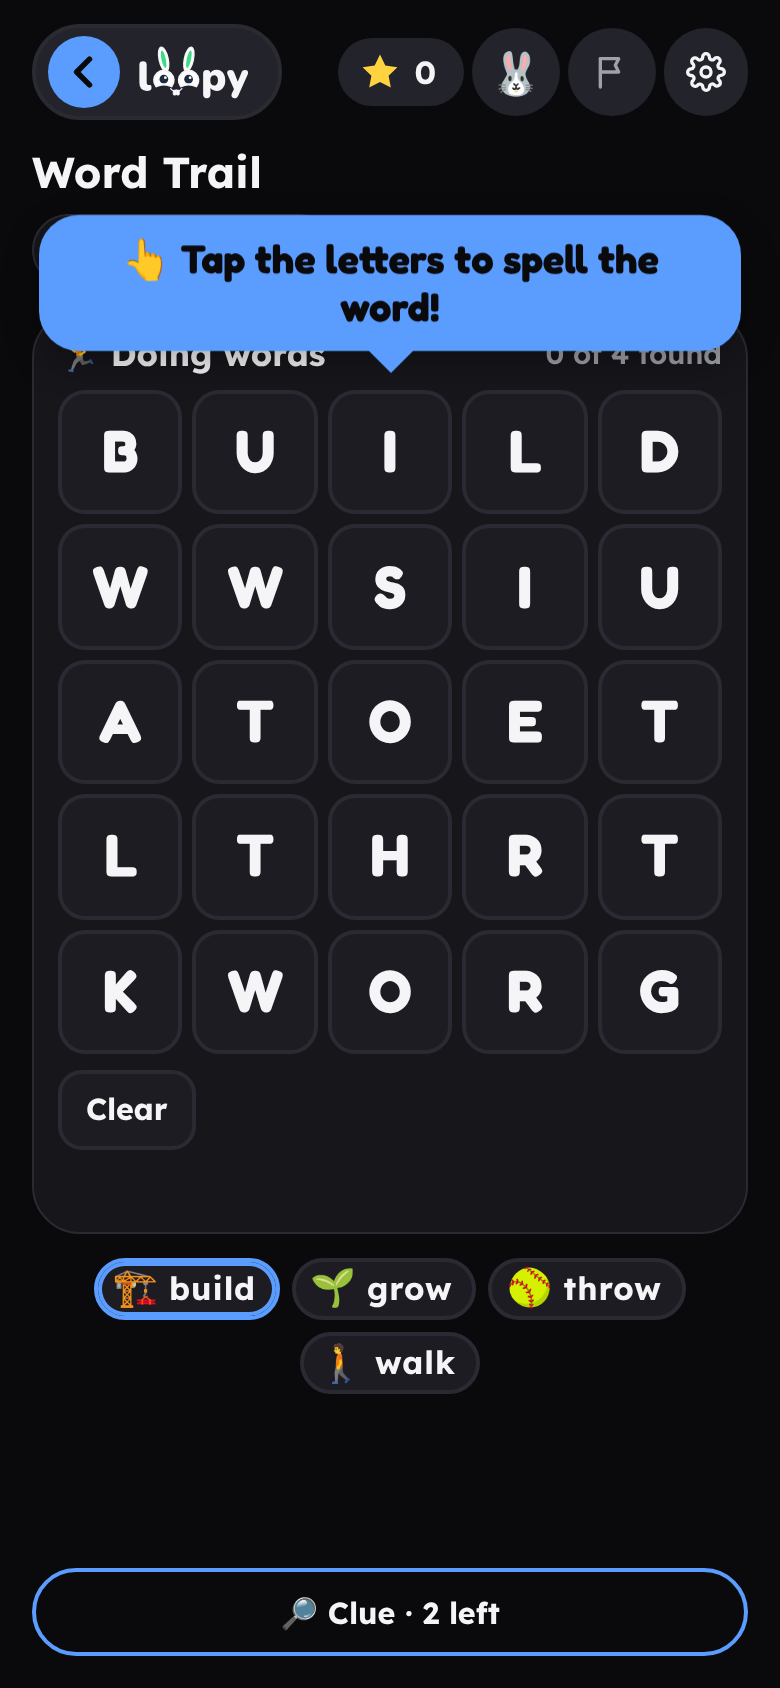
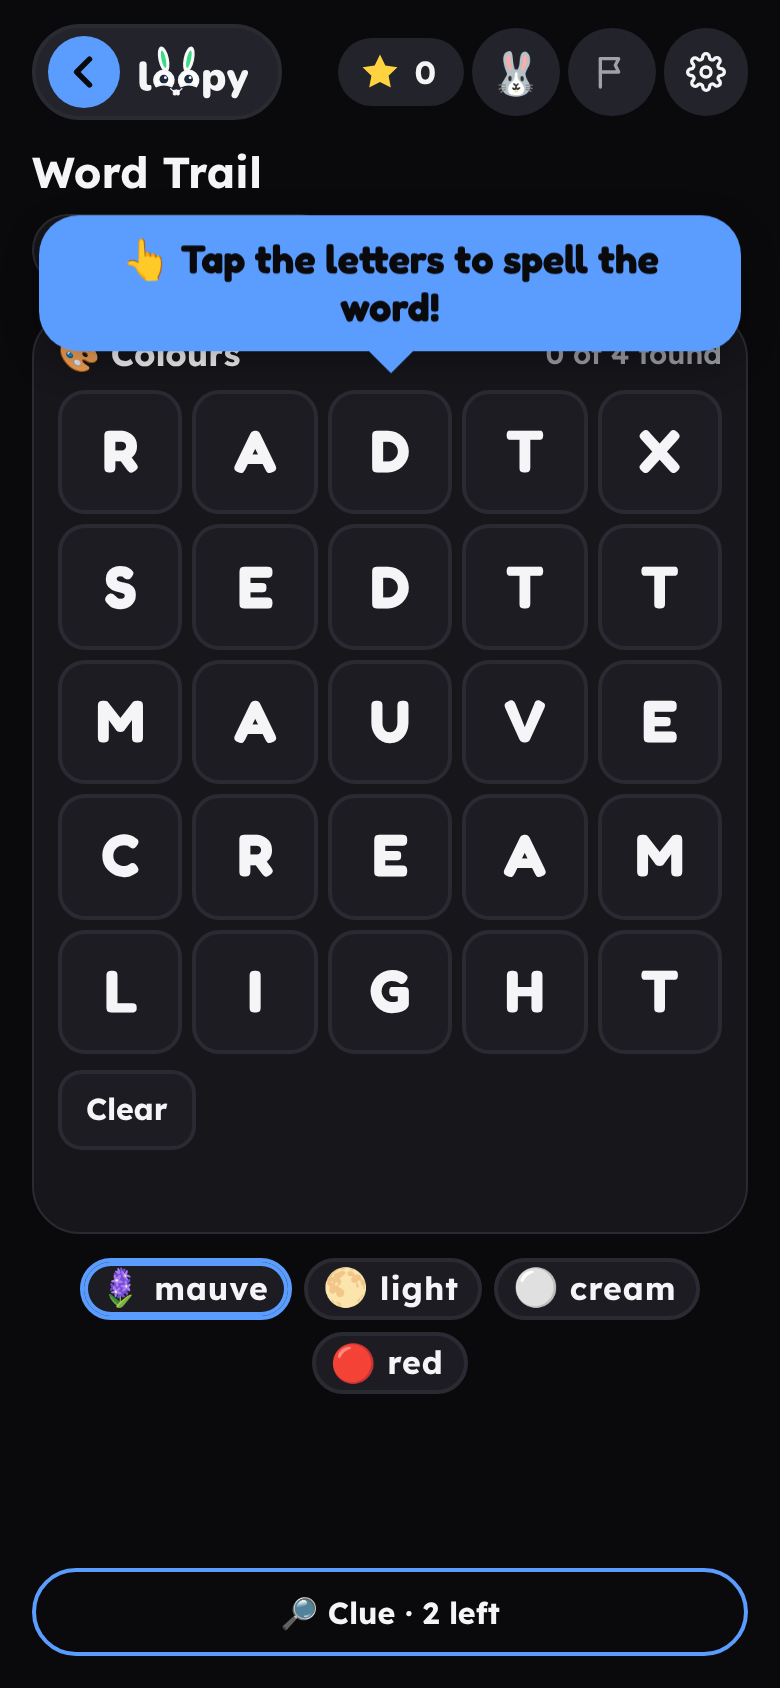
Word Trail: no spare room on a tablet
Upright, the page uses the whole width, so the grid spans the screen.
Sideways, the card column is as wide as the grid can be tall, so the
grid takes the height, and the word list is a column of full-width
chips next to it with Clue and Next under it.

diff --git a/sw.js b/sw.js
@@ -1,5 +1,5 @@
 /* loopy: built from src/sw.js by tools/build.py. Do not edit this file, edit the source. */
-var VERSION="98dfb0cfa30f841a",FILES={"apple-touch-icon.png":"826eeeca90","fonts/atkinson-latin.woff2":"71c3e56f88","fonts/fredoka-latin-ext.woff2":"18a1723c87","fonts/fredoka-latin.woff2":"3facd28352","fonts/lexend-latin-ext.woff2":"b5d815d420","fonts/lexend-latin.woff2":"35a62e43ae","geography/flags-capitals/data.js":"b641089a33","geography/flags-capitals/":"64315fdff4","geography/where-is-it/data.js":"c8e0bf4f86","geography/where-is-it/":"b552768a16","help/":"7fbc62f69d","icon-192.png":"571274d70c","icon-512.png":"dfd4ed3adf","icon-maskable-512.png":"981dcb84db","icon.svg":"3d1a9ed7fd","./":"57e5a7592d","languages/sentence-builder/":"a2606c7ae1","languages/sentence-builder/words.js":"15d02d630a","languages/sound-spell/":"0c2fde4438","languages/sound-spell/words.js":"100ac92ec5","languages/spell-it/":"001e0c3374","languages/spell-it/words.js":"72e87eaa4f","languages/spelling-quiz/":"b497a43315","languages/spelling-quiz/words.js":"9c90832137","languages/word-detective/":"a369dd7558","languages/word-detective/words.js":"62c5968b01","languages/word-match/":"ad5e3099c4","languages/word-trail/":"aac563a6ac","languages/words.js":"ad5f903a46","logo-white.svg":"f6a28d2294","logo.svg":"33f3453587","loopy-backup.js":"f92623ab2d","loopy-install.js":"3c3d79f3e7","loopy-levels.js":"814852b75c","loopy-report.js":"c374c981fa","loopy-sheet.js":"8866d2feb4","loopy-sync.js":"0866d61ab8","loopy.css":"de8276730d","loopy.js":"62f6b0d7c0","manifest.webmanifest":"32d1e2daa8","math/bigger-or-smaller/":"4e67dce547","math/box-multiply/":"cc580bc685","math/coins-change/":"535f5fc48f","math/equation-balance/":"c3315b3c55","math/graphs-data/":"ed5f74ef5d","math/make-10/":"e59ed6180e","math/percent-ratio/":"028a94dda4","math/pizza-fractions/":"1d479f211d","math/plus-minus/":"3cb953f5b6","math/plus-minus-100/":"b149fbb898","math/shapes-angles/":"67dbb0a627","math/step-by-step/":"ee65b66a50","math/times-share/":"c27b0e114f","math/times-sprint/":"ed564f3796","math/what-time-is-it/":"c6b02b8edd","mix/daily-mix/":"f9b732ca31","print.css":"619925ee48","privacy/":"a461f641db","progress/":"f1c7bea29f","science/quick-facts/data.js":"8196c98b79","science/quick-facts/":"753f191d5e","science/sort-it/data.js":"9abc4f3e8a","science/sort-it/":"d7f77a0a37"};
+var VERSION="9f920cac7416a12c",FILES={"apple-touch-icon.png":"826eeeca90","fonts/atkinson-latin.woff2":"71c3e56f88","fonts/fredoka-latin-ext.woff2":"18a1723c87","fonts/fredoka-latin.woff2":"3facd28352","fonts/lexend-latin-ext.woff2":"b5d815d420","fonts/lexend-latin.woff2":"35a62e43ae","geography/flags-capitals/data.js":"b641089a33","geography/flags-capitals/":"64315fdff4","geography/where-is-it/data.js":"c8e0bf4f86","geography/where-is-it/":"b552768a16","help/":"7fbc62f69d","icon-192.png":"571274d70c","icon-512.png":"dfd4ed3adf","icon-maskable-512.png":"981dcb84db","icon.svg":"3d1a9ed7fd","./":"57e5a7592d","languages/sentence-builder/":"a2606c7ae1","languages/sentence-builder/words.js":"15d02d630a","languages/sound-spell/":"0c2fde4438","languages/sound-spell/words.js":"100ac92ec5","languages/spell-it/":"001e0c3374","languages/spell-it/words.js":"72e87eaa4f","languages/spelling-quiz/":"b497a43315","languages/spelling-quiz/words.js":"9c90832137","languages/word-detective/":"a369dd7558","languages/word-detective/words.js":"62c5968b01","languages/word-match/":"ad5e3099c4","languages/word-trail/":"b2cb6e00f4","languages/words.js":"ad5f903a46","logo-white.svg":"f6a28d2294","logo.svg":"33f3453587","loopy-backup.js":"f92623ab2d","loopy-install.js":"3c3d79f3e7","loopy-levels.js":"814852b75c","loopy-report.js":"c374c981fa","loopy-sheet.js":"8866d2feb4","loopy-sync.js":"0866d61ab8","loopy.css":"de8276730d","loopy.js":"62f6b0d7c0","manifest.webmanifest":"32d1e2daa8","math/bigger-or-smaller/":"4e67dce547","math/box-multiply/":"cc580bc685","math/coins-change/":"535f5fc48f","math/equation-balance/":"c3315b3c55","math/graphs-data/":"ed5f74ef5d","math/make-10/":"e59ed6180e","math/percent-ratio/":"028a94dda4","math/pizza-fractions/":"1d479f211d","math/plus-minus/":"3cb953f5b6","math/plus-minus-100/":"b149fbb898","math/shapes-angles/":"67dbb0a627","math/step-by-step/":"ee65b66a50","math/times-share/":"c27b0e114f","math/times-sprint/":"ed564f3796","math/what-time-is-it/":"c6b02b8edd","mix/daily-mix/":"f9b732ca31","print.css":"619925ee48","privacy/":"a461f641db","progress/":"f1c7bea29f","science/quick-facts/data.js":"8196c98b79","science/quick-facts/":"753f191d5e","science/sort-it/data.js":"9abc4f3e8a","science/sort-it/":"d7f77a0a37"};
 var CACHE="loopy-"+VERSION;var LIST=new URL("loopy-files",self.location).href;var SAVED={};Object.keys(FILES).forEach(function(f){SAVED[new URL(f,self.location).href]=FILES[f];});function key(url){var u=new URL(url);u.search="";u.hash="";u.pathname=u.pathname.replace(/\/index\.html$/,"/").replace(/\/([^\/.]+)$/,"/$1/");return u.href;}
 function oldCopy(){return caches.keys().then(function(names){return Promise.all(names.filter(function(n){return n.indexOf("loopy-")===0&&n!==CACHE;}).map(function(n){return caches.open(n).then(function(cache){return cache.match(LIST).then(function(r){return r?r.json():null;}).then(function(list){if(!list||typeof list!=="object")return null;var same=Object.keys(SAVED).filter(function(url){return list[url]===SAVED[url];}).length;return{cache:cache,list:list,same:same};});}).catch(function(){return null;});}));}).then(function(copies){return copies.reduce(function(best,c){return c&&(!best||c.same>best.same)?c:best;},null);}).catch(function(){return null;});}
 function matches(res,want){if(!res||!self.crypto||!crypto.subtle)return Promise.resolve(!!res);return res.clone().arrayBuffer().then(function(buf){return crypto.subtle.digest("SHA-256",buf);}).then(function(d){return Array.prototype.map.call(new Uint8Array(d),function(b){return(b<16?"0":"")+b.toString(16);}).join("").slice(0,10)===want;},function(){return true;});}

diff --git a/languages/word-trail/index.html b/languages/word-trail/index.html
@@ -2,7 +2,7 @@
 <html lang="en">
 <head>
 <meta charset="utf-8">
-<meta http-equiv="Content-Security-Policy" content="default-src 'self'; script-src 'self' 'sha256-lAx0mTM6xN1UceBe24lCt9oUzZXwg/Sj3TcZuJAvhcE='; style-src 'self' 'sha256-z2P7kGW5Z05eCTjTZdYpc0vThTlOE9vmt97pVSvi2I4=' 'sha256-qxqld09sBl9KP7HcyMVqISsx5anYdMyEAaUoAncFj3Q=' 'sha256-RT1053JU5UiKvjrCUFx1rlhdFLMmgtuFJ9T8jnMeawQ=' 'sha256-YYUDj2doCdN0V13HLDitm8qTdC5Oy36quKpZHCQ5GXs='; img-src 'self' data:; font-src 'self'; connect-src 'self' https://loopy-sync.loopy-1e2.workers.dev; worker-src 'self'; object-src 'none'; base-uri 'none'; form-action 'none'; manifest-src 'self'; upgrade-insecure-requests">
+<meta http-equiv="Content-Security-Policy" content="default-src 'self'; script-src 'self' 'sha256-lAx0mTM6xN1UceBe24lCt9oUzZXwg/Sj3TcZuJAvhcE='; style-src 'self' 'sha256-z2P7kGW5Z05eCTjTZdYpc0vThTlOE9vmt97pVSvi2I4=' 'sha256-qxqld09sBl9KP7HcyMVqISsx5anYdMyEAaUoAncFj3Q=' 'sha256-RT1053JU5UiKvjrCUFx1rlhdFLMmgtuFJ9T8jnMeawQ=' 'sha256-JLCGGHAfRX9x+80gQLgpmM9Oo+2y4pigyml2DfJWIa0='; img-src 'self' data:; font-src 'self'; connect-src 'self' https://loopy-sync.loopy-1e2.workers.dev; worker-src 'self'; object-src 'none'; base-uri 'none'; form-action 'none'; manifest-src 'self'; upgrade-insecure-requests">
 <meta name="referrer" content="strict-origin-when-cross-origin">
 <meta name="viewport" content="width=device-width, initial-scale=1, viewport-fit=cover">
 <style>:root{color-scheme:light;padding-top:env(safe-area-inset-top,0px);padding-bottom:env(safe-area-inset-bottom,0px)}body{margin:0}[hidden]{display:none!important}</style>
@@ -99,7 +99,7 @@ body { min-height: 100vh; min-height: 100dvh; padding-block: 12px 16px; }
 .bar-right { display: flex; align-items: center; gap: 8px; }
 .top { gap: 8px 12px; }
 .play { display: flex; flex-direction: column; gap: 12px; -webkit-user-select: none; user-select: none; }
-@media (min-width: 600px) and (orientation: portrait) { .wrap { max-width: 760px; } } /* wider than the other games: the grid is the whole game */
+@media (min-width: 600px) and (orientation: portrait) { .wrap { max-width: none; } } /* the whole width, unlike the other games: the grid is the whole game */
 @media (orientation: landscape) and (min-width: 640px) {
   .wrap { max-width: 1100px; }
   .play { display: grid; grid-template-columns: 1fr 1fr; gap: 16px; align-items: center; }
@@ -125,17 +125,26 @@ body { min-height: 100vh; min-height: 100dvh; padding-block: 12px 16px; }
   .problem-card { flex-grow: 999; max-height: calc(100cqw + 104px); }
   .problem-card:has(#result:not([hidden])) { max-height: calc(100cqw + 170px); }
   .feedback { min-height: 1.5em; }
-  .side { flex: 1 1 auto; min-height: 0; display: flex; flex-direction: column; justify-content: space-between; gap: 10px; }
+  .side { flex: 1 0 auto; min-height: 0; display: flex; flex-direction: column; justify-content: space-between; gap: 10px; }
   .side .words { flex: 0 0 auto; }
 }
-/* Tablets upright: bigger word chips and buttons; the word list sits under the card, Clue at the bottom. */
-@media (orientation: portrait) and (min-width: 600px) {
+/* Tablets: bigger word chips and buttons. Upright, the word list sits under the card and Clue at the bottom.
+   Sideways, the card column is as wide as the grid can be tall, so the grid takes the height and the list the rest. */
+@media (orientation: portrait) and (min-width: 600px), (orientation: landscape) and (min-width: 900px) and (min-height: 600px) {
   .side { gap: 16px; }
   .words { gap: 10px; }
   .wd { font-size: 1.2rem; padding: 7px 14px 7px 10px; }
   .wd .e { font-size: 1.4rem; }
   .more { min-height: 54px; font-size: 1.1rem; }
   .next { font-size: 1.35rem; }
+}
+@media (orientation: landscape) and (min-width: 900px) and (min-height: 600px) {
+  .play { grid-template-columns: minmax(0, calc(100dvh - 210px)) minmax(0, 1fr); }
+  .words { flex-direction: column; align-items: stretch; gap: 10px; }
+  .wd { font-size: 1.4rem; padding: 10px 18px 10px 14px; justify-content: flex-start; }
+  .wd .e { font-size: 1.8rem; }
+  .more { min-height: 60px; }
+  .next { min-height: 64px; }
 }
 @media (orientation: landscape) and (min-width: 640px) {
   body { height: calc(100dvh - env(safe-area-inset-top, 0px) - env(safe-area-inset-bottom, 0px)); min-height: 0; display: flex; flex-direction: column; overflow: hidden; }

diff --git a/RELEASES.md b/RELEASES.md
@@ -4,7 +4,7 @@ The big changes, newest first. Small fixes are not listed.
 
 | Date | What's new | Where | PR |
 | --- | --- | --- | --- |
-| 2026-11-01 | Word Trail: a bigger grid and no Check button. The letter grid now takes all the room its card has. The letters are bigger on a phone and a tablet, and the card has no empty gaps. The word list sits right under the card and Clue stays at the bottom. The Check button is gone. A right word counts on its last letter, as before. A wrong trail shows the word in red by itself, as soon as it is as long as the word you are looking for. Clear and the spelled letters stay under the grid. | Word Trail | #181 |
+| 2026-11-01 | Word Trail: a bigger grid and no Check button. The letter grid now takes all the room its card has. The letters are bigger on a phone and a tablet, and the card has no empty gaps. The word list sits right under the card and Clue stays at the bottom. On a tablet held upright the grid uses the whole width of the screen. Held sideways, the word list is a column next to the grid. The Check button is gone. A right word counts on its last letter, as before. A wrong trail shows the word in red by itself, as soon as it is as long as the word you are looking for. Clear and the spelled letters stay under the grid. | Word Trail | #181 |
 | 2026-11-01 | The guide explains ⚙ Settings in full. It walks through every part of Settings on the home page, from Kids to Use like an app. The family code gets its own section: what it looks like, how to type it, where to see it again and what to do if it is lost. A table says which settings go to the other family devices and which stay on each device. The Family sync page lists what the messages under the buttons mean, and Stay in touch and the privacy note are described step by step. English and German. | Guide, FAQ, Help | #180 |
 | 2026-11-01 | Twice as many words. Every word game now has at least double the words to practise. Word Match has about 270 words instead of 100. Word Trail has about 1,000 instead of 480. Word Detective has 240 per language instead of 120. Spell It has 356 English and 238 German words, Sound Spell 142 and 136. Sentence Builder has 240 sentences per language instead of 120. Spelling Quiz has at least twice as many words in each grade. The games look and play the same, there is just less repeating. | Word Match, Word Trail, Word Detective, Spell It, Sound Spell, Sentence Builder, Spelling Quiz | #176 |
 | 2026-11-01 | Lighter game pages. The words, sentences, facts, flags and map of each game now sit in their own small file next to the game. Word Match and Word Trail share one word bank. Nothing looks or plays differently. The pages themselves are smaller, and when a word list changes, phones download only that small file instead of the whole page. Grown-ups who want to add a word find each file named in the game's README. | All word, fact and map games | #174 |

diff --git a/guide-src/src/content/docs/de/help/whats-new.md b/guide-src/src/content/docs/de/help/whats-new.md
@@ -10,7 +10,7 @@ Die großen Änderungen, die neuesten zuerst. Kleine Korrekturen stehen nicht da
 
 ## 1. November 2026
 
-- **Wortpfad: ein größeres Gitter, kein Prüfen-Knopf.** Das Buchstabengitter nimmt jetzt den ganzen Platz seiner Karte ein. Die Buchstaben sind auf dem Handy und dem Tablet größer. Der Prüfen-Knopf ist weg. Ein richtiges Wort zählt beim letzten Buchstaben, wie bisher. Ein falscher Pfad zeigt das Wort von selbst in Rot, sobald er so lang ist wie das gesuchte Wort. Siehe [Wortpfad](/loopy/guide/de/games/languages/word-trail/).
+- **Wortpfad: ein größeres Gitter, kein Prüfen-Knopf.** Das Buchstabengitter nimmt jetzt den ganzen Platz seiner Karte ein. Die Buchstaben sind auf dem Handy und dem Tablet größer. Auf dem Tablet nutzt das Gitter den ganzen Bildschirm, und quer gehalten steht die Wortliste als Spalte daneben. Der Prüfen-Knopf ist weg. Ein richtiges Wort zählt beim letzten Buchstaben, wie bisher. Ein falscher Pfad zeigt das Wort von selbst in Rot, sobald er so lang ist wie das gesuchte Wort. Siehe [Wortpfad](/loopy/guide/de/games/languages/word-trail/).
 - **Einstellungen ganz erklärt.** Die Seite [Einstellungen auf der Startseite](/loopy/guide/de/settings/home-settings/) geht jetzt jeden Teil durch. Der Familien-Code hat einen eigenen Abschnitt: wie du ihn eintippst, wo du ihn wiederfindest und was bei Verlust zu tun ist. Eine Tabelle sagt, welche Einstellungen auf die anderen Familien-Geräte kommen und welche auf jedem Gerät bleiben. [Familien-Sync](/loopy/guide/de/stars/family-sync/) erklärt, was die Meldungen unter den Knöpfen bedeuten.
 - **Doppelt so viele Wörter.** Jedes Wortspiel hat jetzt mindestens doppelt so viele Wörter zum Üben. Bild und Wort hat etwa 270 Wörter und Wortpfad etwa 1.000. Wortdetektiv hat 240 pro Sprache. Wörter schreiben hat 356 englische und 238 deutsche Wörter. Satzbau hat 240 Sätze pro Sprache. Anlaut und Endlaut und das Rechtschreib-Quiz haben auch doppelt so viele. Die Spiele sehen gleich aus und spielen sich gleich, es wiederholt sich nur weniger.
 - **Leichtere Spielseiten.** Die Wörter, Fakten, Flaggen und die Karte jedes Spiels liegen jetzt in einer eigenen kleinen Datei neben dem Spiel. Nichts sieht anders aus oder spielt sich anders, aber eine geänderte Wortliste wird allein geladen, nicht mit der ganzen Seite. Wie man ein Wort ergänzt, steht unter [Fragen und Antworten](/loopy/guide/de/help/faq/).

diff --git a/guide-src/src/content/docs/help/whats-new.md b/guide-src/src/content/docs/help/whats-new.md
@@ -10,7 +10,7 @@ The big changes, newest first. Small fixes are not listed. See [the full list on
 
 ## 1 November 2026
 
-- **Word Trail: a bigger grid, no Check button.** The letter grid now takes all the room its card has. The letters are bigger on a phone and on a tablet. The Check button is gone. A right word counts on its last letter, as before. A wrong trail shows the word in red by itself, as soon as it is as long as the word you are looking for. See [Word Trail](/loopy/guide/games/languages/word-trail/).
+- **Word Trail: a bigger grid, no Check button.** The letter grid now takes all the room its card has. The letters are bigger on a phone and on a tablet. On a tablet the grid uses the whole screen, and held sideways the word list is a column next to it. The Check button is gone. A right word counts on its last letter, as before. A wrong trail shows the word in red by itself, as soon as it is as long as the word you are looking for. See [Word Trail](/loopy/guide/games/languages/word-trail/).
 - **Settings explained in full.** The guide's [Settings on the home page](/loopy/guide/settings/home-settings/) now walks through every part. The family code gets its own section: how to type it, where to see it again and what to do if it is lost. A table says which settings go to the other family devices and which stay on each device. [Family sync](/loopy/guide/stars/family-sync/) explains what the messages under its buttons mean.
 - **Twice as many words.** Every word game now has at least double the words to practise. Word Match has about 270 words and Word Trail about 1,000. Word Detective has 240 per language. Spell It has 356 English and 238 German words. Sentence Builder has 240 sentences per language. Sound Spell and Spelling Quiz have twice as many too. The games look and play the same, there is just less repeating.
 - **Lighter game pages.** The words, facts, flags and map of each game now sit in their own small file next to the game. Nothing looks or plays differently, but a changed word list downloads alone, not with the whole page. See [Questions and answers](/loopy/guide/help/faq/) for how to add a word.
